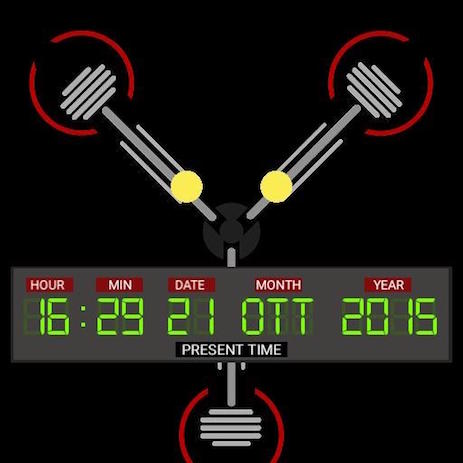
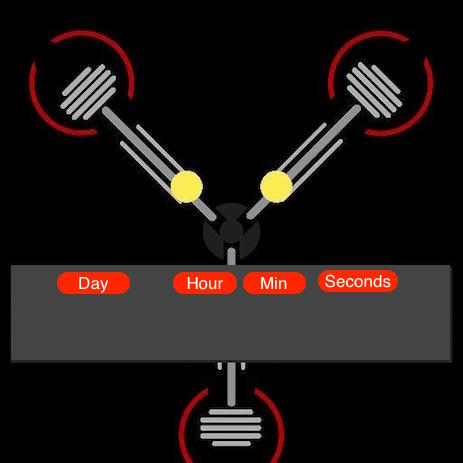
Add files via upload

Changed region(s): [[0.0, 0.5745, 0.9676, 0.7862]]

diff --git a/stylesheet.css b/stylesheet.css
@@ -1,12 +1,13 @@
 #timeback{
-  position: relative;;
-  left: 32.5%;
+  position:relative;
+  left: 42%;
   opacity: 100%;
+
 }
 
 #timehome{
   position: relative;;
-  left: 32.25%;
+  left: 42%;
   display:none;
 }
 
@@ -19,11 +20,11 @@
 h1{
   text-align: center;
 }
-h2 {
+#clockh1 {
   text-align: center;
 }
 #clockh2{
-  padding: 20px;
+  text-align: center;
 }
 
 
@@ -31,30 +32,36 @@ h2 {
   height:auto;
   width: auto;
   position: relative;;;
-  color: blue;
+  color: #66ff33;
   text-shadow: 1px 1px black;
+  margin-top: 110px;
+  font-family: 'Orbitron', sans-serif;
+  font-size: 38px;
 }
 
 #div3 {
   height:auto;
   width: auto;
   position: relative;;;
-  color: blue;
+  color: #66ff33;
   text-shadow: 1px 1px black;
   display: none;
+  font-family: 'Orbitron', sans-serif;
+  margin-top: 100px;
+  font-size: 51px;
 }
 
 #wrapper{
-height: 600px;
-width:463px;
+height: 1920px;
+width:1080px;
 margin:auto;
 }
 
 #bttf{
   background-image: url("bttfsmall.jpg");
-  opacity: 0.5;
-  height: 600px;
-  width:463px;
+  <!--opacity: 0.5;-->
+  height: 1920px;
+  width:1080px;
   position:absolute;
 }
 p{
@@ -63,4 +70,28 @@ p{
 }
 button {
   background-color: yellow;
+}
+
+#button{
+  margin-top:452px;
+  position: relative;;;
+  left: 43.57%;
+  height: 138px;
+  width: 138px;
+  border-radius: 50%;
+  background-color: red;
+}
+
+#button2 {
+  margin-top:-45px;
+  position: relative;;;
+  left: 38%;
+  height: 35px;
+  width: 260px;
+  background-color: red;
+  text-align: center;
+  font-size: 27px;
+  color: yellow;
+
+
 }

diff --git a/time.html b/time.html
@@ -9,27 +9,30 @@
   <script type="text/javascript" src="time.js"></script>
   <script type="text/javascript" src="timetravel.js"></script>
   <script type="text/javascript" src="daypicker.js"></script>
+  <script type="text/javascript" src="pulsate.js"></script>
   <link rel="stylesheet" type="text/css" href="stylesheet.css">
+  <link href='https://fonts.googleapis.com/css?family=Orbitron' rel='stylesheet' type='text/css'>
 
 </head>
 
 <div id=wrapper>
 <body>
 <img id=bttf src="fluxsized.jpg"><img>
-<div id=div2>
-  <h2 id=clockh1> </h2>
-  <p id=donttalk>DON'T TALK TO ANYONE!!</p>
+
+
+<div id=button>
+<!--<button id=timeback>Click to travel Back in Time.</button>-->
 </div>
-
-
-<button id=timeback>Click to travel Back in Time.</button>
-
+<div id=div2>
+  <h1 id=clockh1> </h1>
+  <!--<p id=donttalk>DON'T TALK TO ANYONE!!</p>-->
+</div>
 <div id=div3>
   <h2 id =clockh2> </h2>
 </div>
-
-<button id=timehome>Go BACK TO THE FUTURE.</button>
-
+<div id=button2>Back to the FUTURE!
+<!--<button id=timehome>Go BACK TO THE FUTURE.</button>-->
+</div>
 </body>
 </div>
 

diff --git a/daypicker.js b/daypicker.js
@@ -1,7 +1,7 @@
 
 
 $(document).ready(function(){
-  $("#timeback").click(function(){
+  $("#button").click(function(){
       // prompts for day of the week
       x = prompt("What Day?")
 
@@ -32,14 +32,24 @@ $(document).ready(function(){
       }
 
     $("#div3").show();
-    $("#timehome").show();
+    $("#button2").show();
   })
 });
 
 $(document).ready(function(){
-  $("#timehome").click(function(){
-      $("#clockh2").html("Calculating");
+  $("#button2").click(function(){
     $("#div3").hide();
-    $("#timehome").hide();
+    $(this).hide();
+  })
+});
+
+$(document).ready(function(){
+  $("#button").click(function(){
+    $("#div2").hide();
+  })
+});
+$(document).ready(function(){
+  $("#button2").click(function(){
+    $("#div2").show();
   })
 });

diff --git a/time.js b/time.js
@@ -42,7 +42,7 @@ else{
 };
 
 
-var clock1 = "Home Time is: " + dayList1[day1] + " " + stdTime1 + " : " + addZeroToMinutes1 + " : " + addZeroToSeconds1 + " " + ampm1;
+var clock1 = dayList1[day1] + " " + stdTime1 + " : " + addZeroToMinutes1 + " : " + addZeroToSeconds1 + " " + ampm1;
 
 $(document).ready(function(){
   $("#clockh1").html(clock1);

diff --git a/timetravel.js b/timetravel.js
@@ -48,7 +48,7 @@ function timeTraveler (){
     ampm = "AM";
   };
 
-var clock = "Current Time : " + dayList[x] + " " + stdTime + " : " + addZeroToMinutes + " : " + addZeroToSeconds + " " + ampm;
+var clock = dayList[x] + " " + stdTime + " : " + addZeroToMinutes + " : " + addZeroToSeconds + " " + ampm;
 
 //adds the clock to HTML
 

diff --git a/pulsate.js b/pulsate.js
@@ -1,0 +1,6 @@
+$(document).ready(function() {
+  // do fading 3 times
+  for(i=0;i<=100;i++) {
+    $("#button").fadeTo('slow', 0.1).fadeTo('slow', 0.17);
+  }
+});
